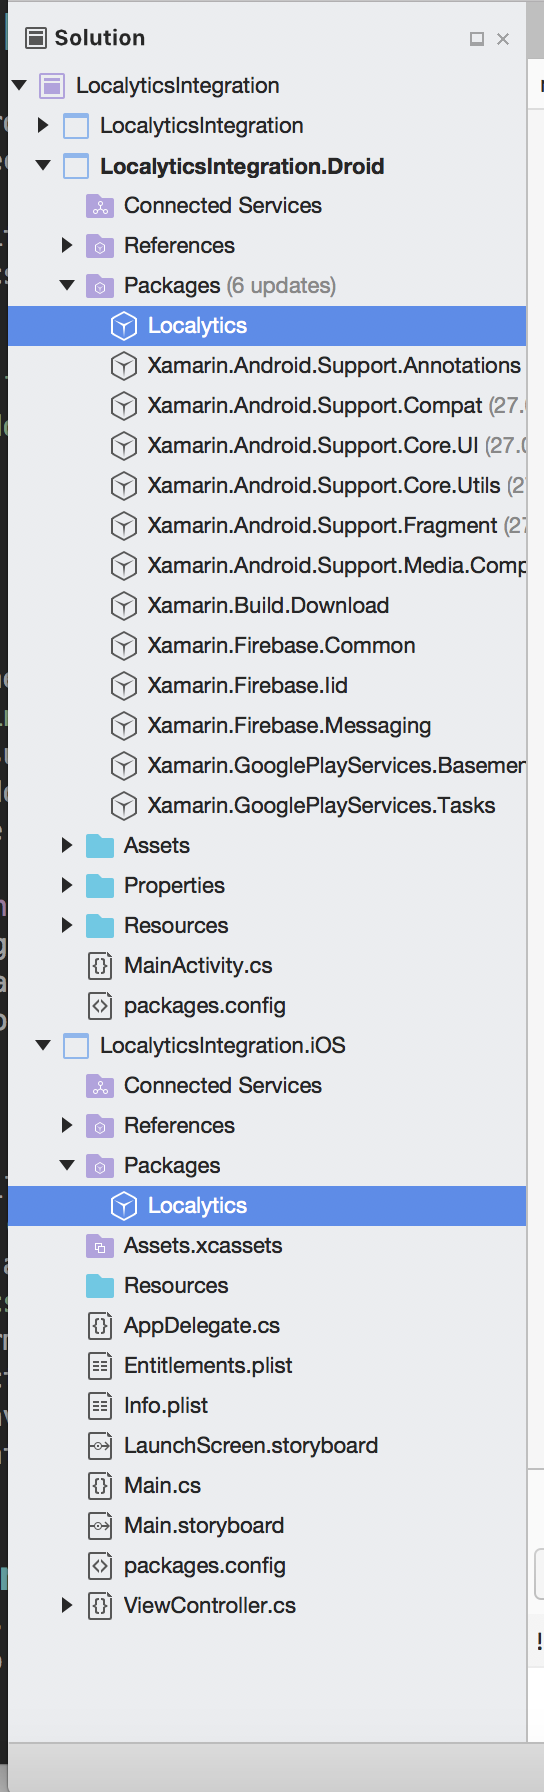
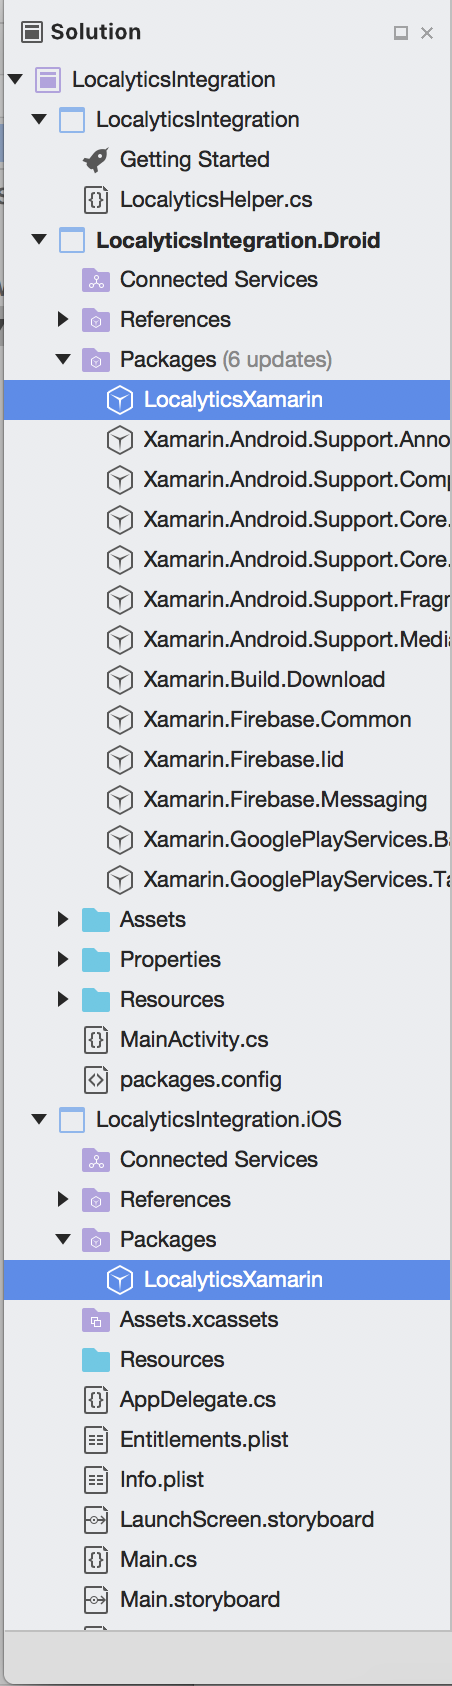
Fix Images

Changed region(s): [[0.0, 0.0, 1.0, 1.0], [0.0929, 0.4626, 0.1239, 0.5243], [0.0619, 0.5552, 0.0929, 0.586]]

diff --git a/GettingStarted.md b/GettingStarted.md
@@ -18,7 +18,7 @@ The steps to integrate Localytics with this component mirrors the native Localyt
 	* Add a Package ![Add Package Menu](/images/AddPackage.png)
 	* Select localytics as the package sources ![Add Package Dialog](/images/AddPackageDialog.png)
 	* Pick the latest version of LocalyticsXamarin nuget package
-	* Repeat the step for each platform (Android and iOS) ![Solution Window](/images/AddPackageDialog.png)
+	* Repeat the step for each platform (Android and iOS) ![Solution Window](/images/AfterPackagesAdded.png)
 	
 ## Package Names
 
